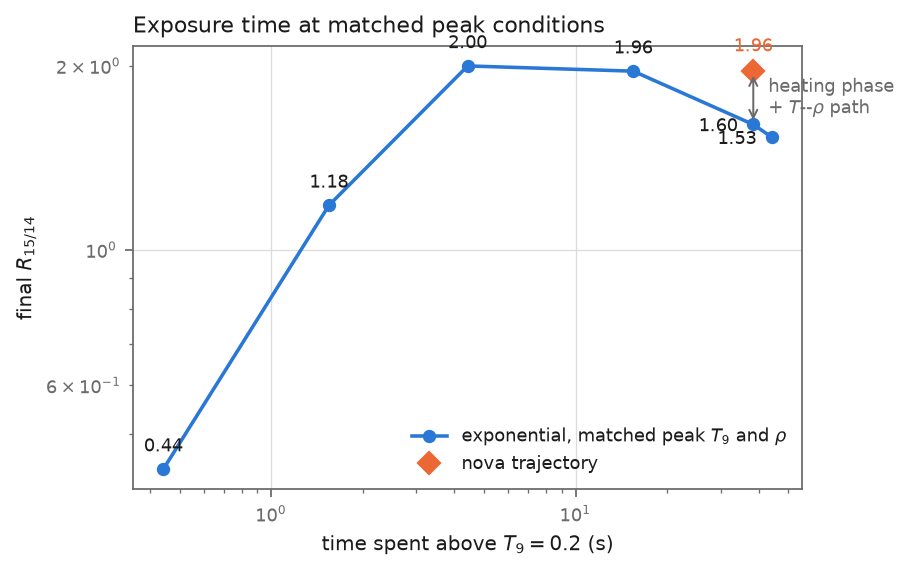
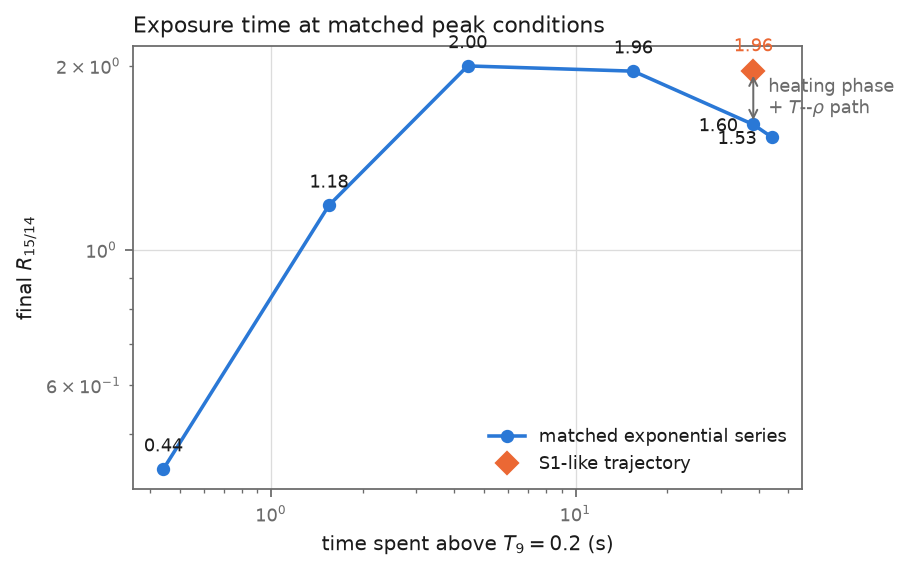
Name the two families distinctly in the matched-control figure
The legend read "exponential, matched peak T9 and rho" and "nova trajectory",
which did not make clear that the first is a family of exponential models and
the second is the S1-like history they are matched to.  They are now labelled
"matched exponential series" and "S1-like trajectory", matching the manuscript.

Claude-Session: https://claude.ai/code/session_01F8zb3Rm2ZLkhr9KyqnpcnV

Changed region(s): [[0.4615, 0.743, 0.8615, 0.8322]]

diff --git a/Experiment/src/make_figures.py b/Experiment/src/make_figures.py
@@ -453,7 +453,7 @@ def figure_matched_control(summary: dict, name: str) -> None:
     trajectory = summary["runs"].get("traj_ref")
     fig, ax = plt.subplots(figsize=(5.4, 3.6))
     ax.plot([e[0] for e in entries], [e[1] for e in entries], color=PALETTE[0],
-            marker="o", markersize=5, label="exponential, matched peak $T_9$ and $\\rho$")
+            marker="o", markersize=5, label="matched exponential series")
     # The two longest-exposure runs sit close together, and the trajectory point
     # and its residual arrow occupy the space directly above them, so their
     # labels are placed to the left rather than on top.
@@ -469,7 +469,7 @@ def figure_matched_control(summary: dict, name: str) -> None:
         tx = trajectory["time_above_t9_0p2_s"]
         ty = trajectory["r_final"]
         ax.plot([tx], [ty], color=PALETTE[1], marker="D", markersize=7,
-                linestyle="none", label="nova trajectory")
+                linestyle="none", label="S1-like trajectory")
         ax.annotate(f"{ty:.2f}", (tx, ty), textcoords="offset points", xytext=(0, 9),
                     ha="center", fontsize=8, color=PALETTE[1])
         # The residual is the gap at *equal exposure*, so it is anchored on the
